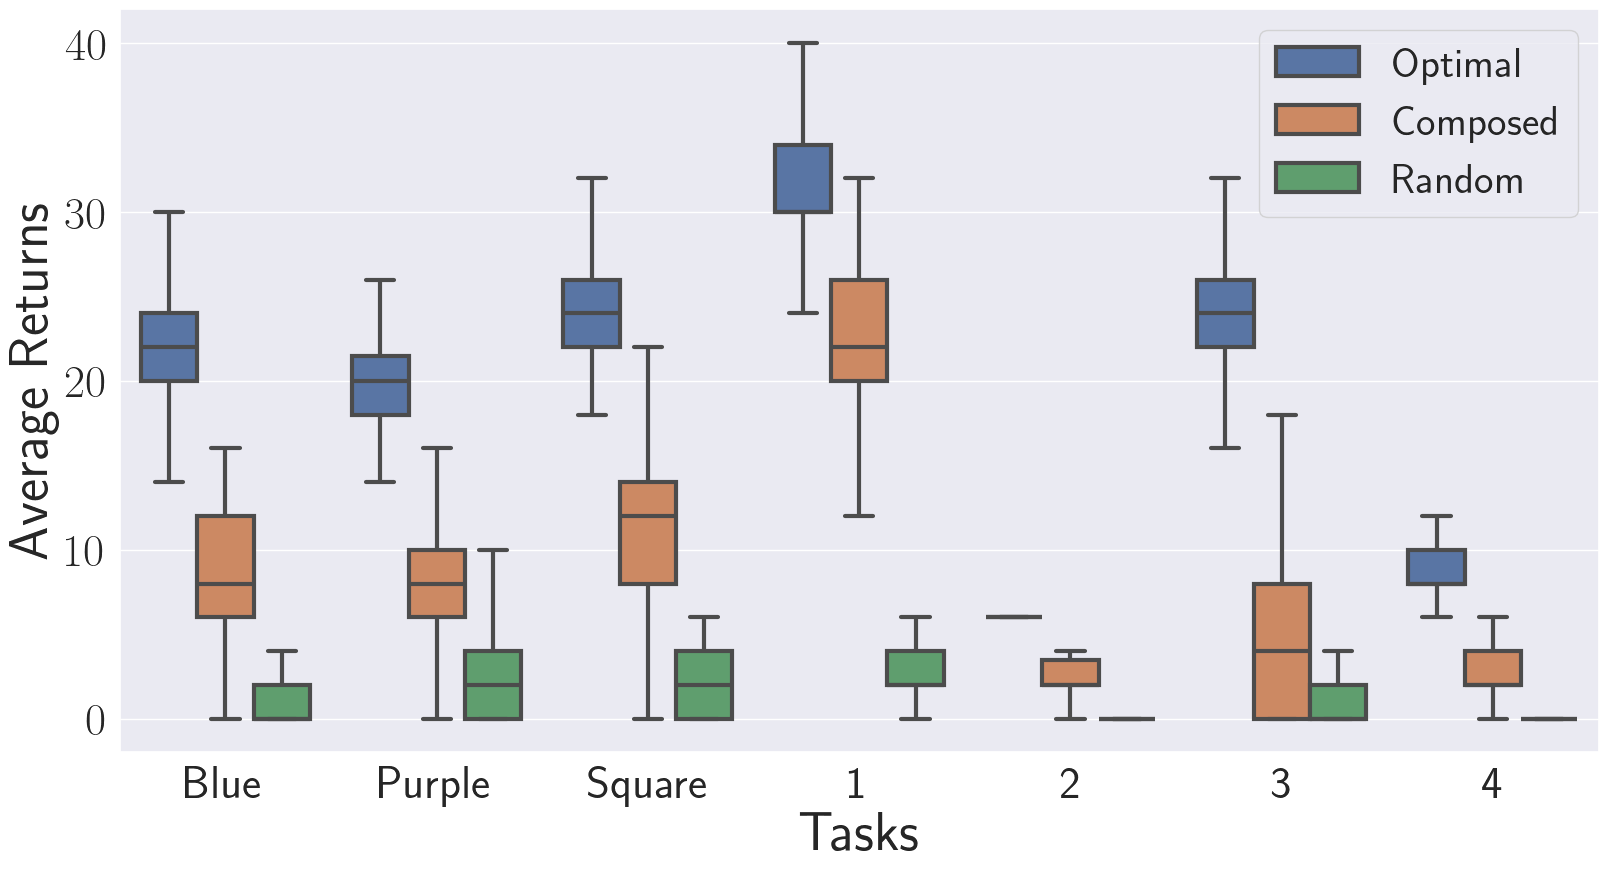
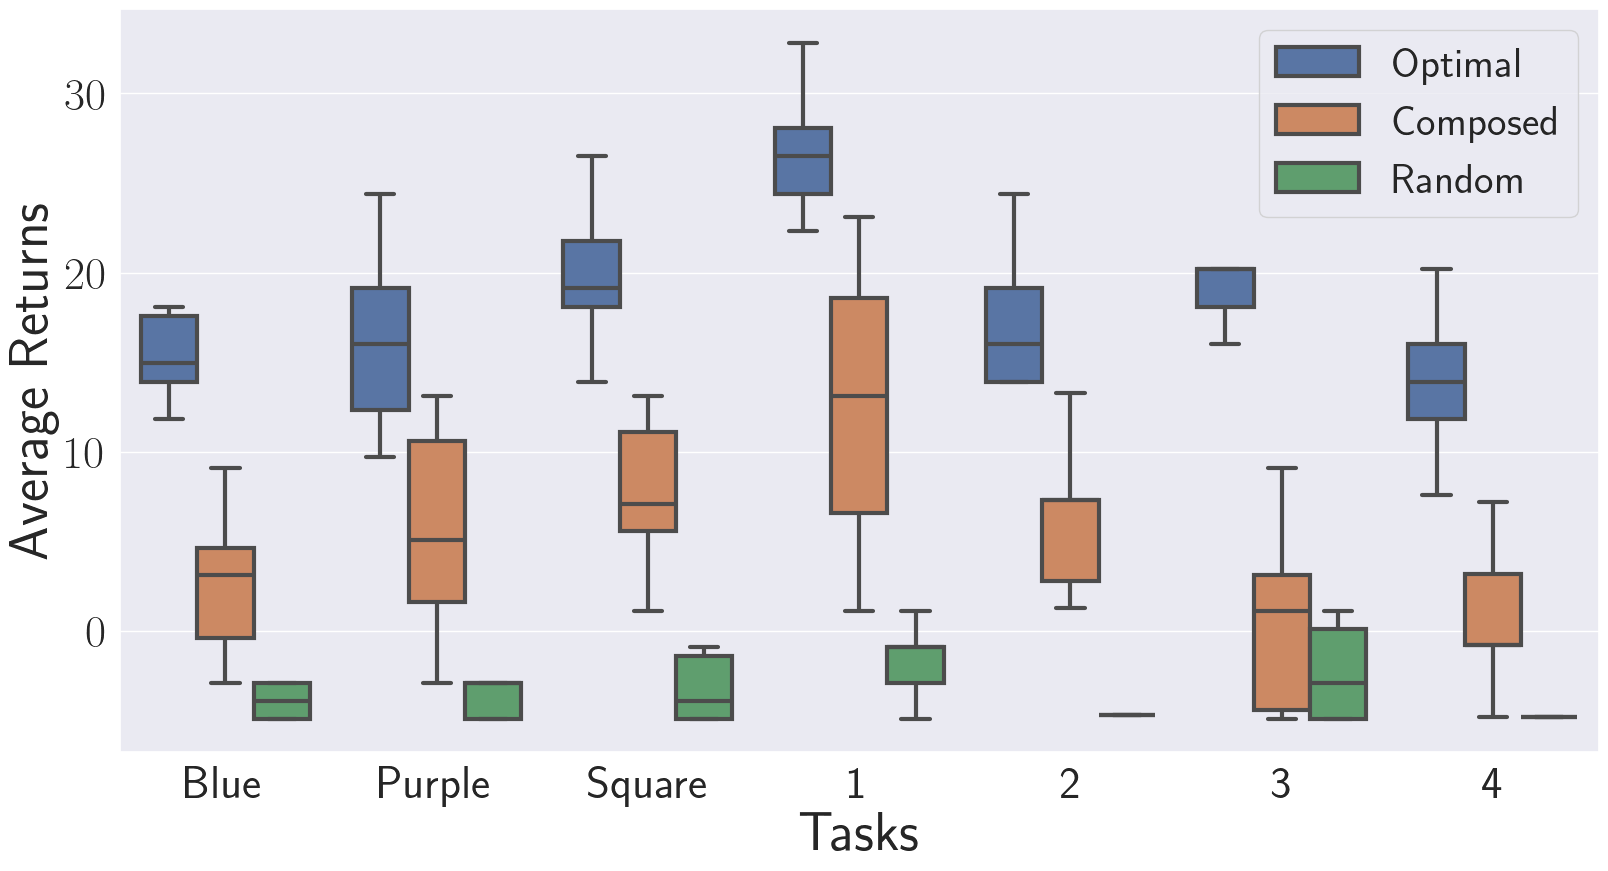
update

diff --git a/plots.py b/plots.py
@@ -134,8 +134,8 @@ def plot_moving_iclr():
                     (3.059915937000483, 1.63931166842678)    # F.shortest(6) 
                     ]
     
-    gamma=1; rmin=-0.1, rmax=2
-    num_runs = 10
+    gamma=1; rmin=-0.1; rmax=2
+    num_runs = 100
     data_sm = np.zeros((num_runs,len(tasks))) 
     data_random = np.zeros((num_runs,len(tasks))) 
     data_optimal = np.zeros((num_runs,len(tasks))) 
@@ -144,17 +144,17 @@ def plot_moving_iclr():
         for j in range(len(tasks)):
             ### Learned            
             eval_total_reward, eval_successes, eval_steps = evaluate(task_envs[j], SM=SM, epsilon=0.1, gamma=gamma, episodes=1, eval_steps=50)
-            data_sm[i,j] = eval_steps*rmin + eval_total_reward if args.metric=="eval total reward" else eval_successes
+            data_sm[i,j] = (eval_steps-len(tasks_goals[j]))*rmin + eval_successes*len(tasks_goals[j])*rmax
             ### Random
             eval_total_reward, eval_successes, eval_steps = evaluate(task_envs[j], epsilon=1, gamma=gamma, episodes=1, eval_steps=50)
-            data_random[i,j] = eval_steps*rmin + eval_total_reward if args.metric=="eval total reward" else eval_successes
+            data_random[i,j] = (eval_steps-len(tasks_goals[j]))*rmin + eval_successes*len(tasks_goals[j])*rmax
             ### Start optimal
             G, steps, t = 0, 0, 0
             while True:
                 mean, std = steps_mean_std[tasks_goals[j][t]-1]
                 step = max(0,np.random.normal(loc=mean, scale=std))
                 steps += step
-                if steps < 50: G += step*rmin + ((t+1)==len(tasks_goals[j]))*rmax
+                if steps < 50: G += (step-1)*rmin + rmax
                 else:          G += (50-(steps-step))*rmin; break
                 t = (t+1)%len(tasks_goals[j])
             data_optimal[i,j] = G

diff --git a/sm.py b/sm.py
@@ -353,6 +353,8 @@ def evaluate(task_env, SM=None, skill=None, epsilon=0, gamma=1, episodes=100, ev
             state, reward, done, truncated, info = task_env.step(action)       
             if SM: SM.step(task_env.rm, info["true_propositions"])
             
-            rewards += (gamma**step)*reward; step += 1; steps += 1
-            if done or truncated or step>=eval_steps: successes += reward>=task_env.rm.rmax; break
+            rewards += (gamma**step)*reward
+            successes += reward>=task_env.rm.rmax
+            step += 1; steps += 1
+            if done or truncated or step>=eval_steps: break
     return rewards, successes/episodes, steps/episodes
